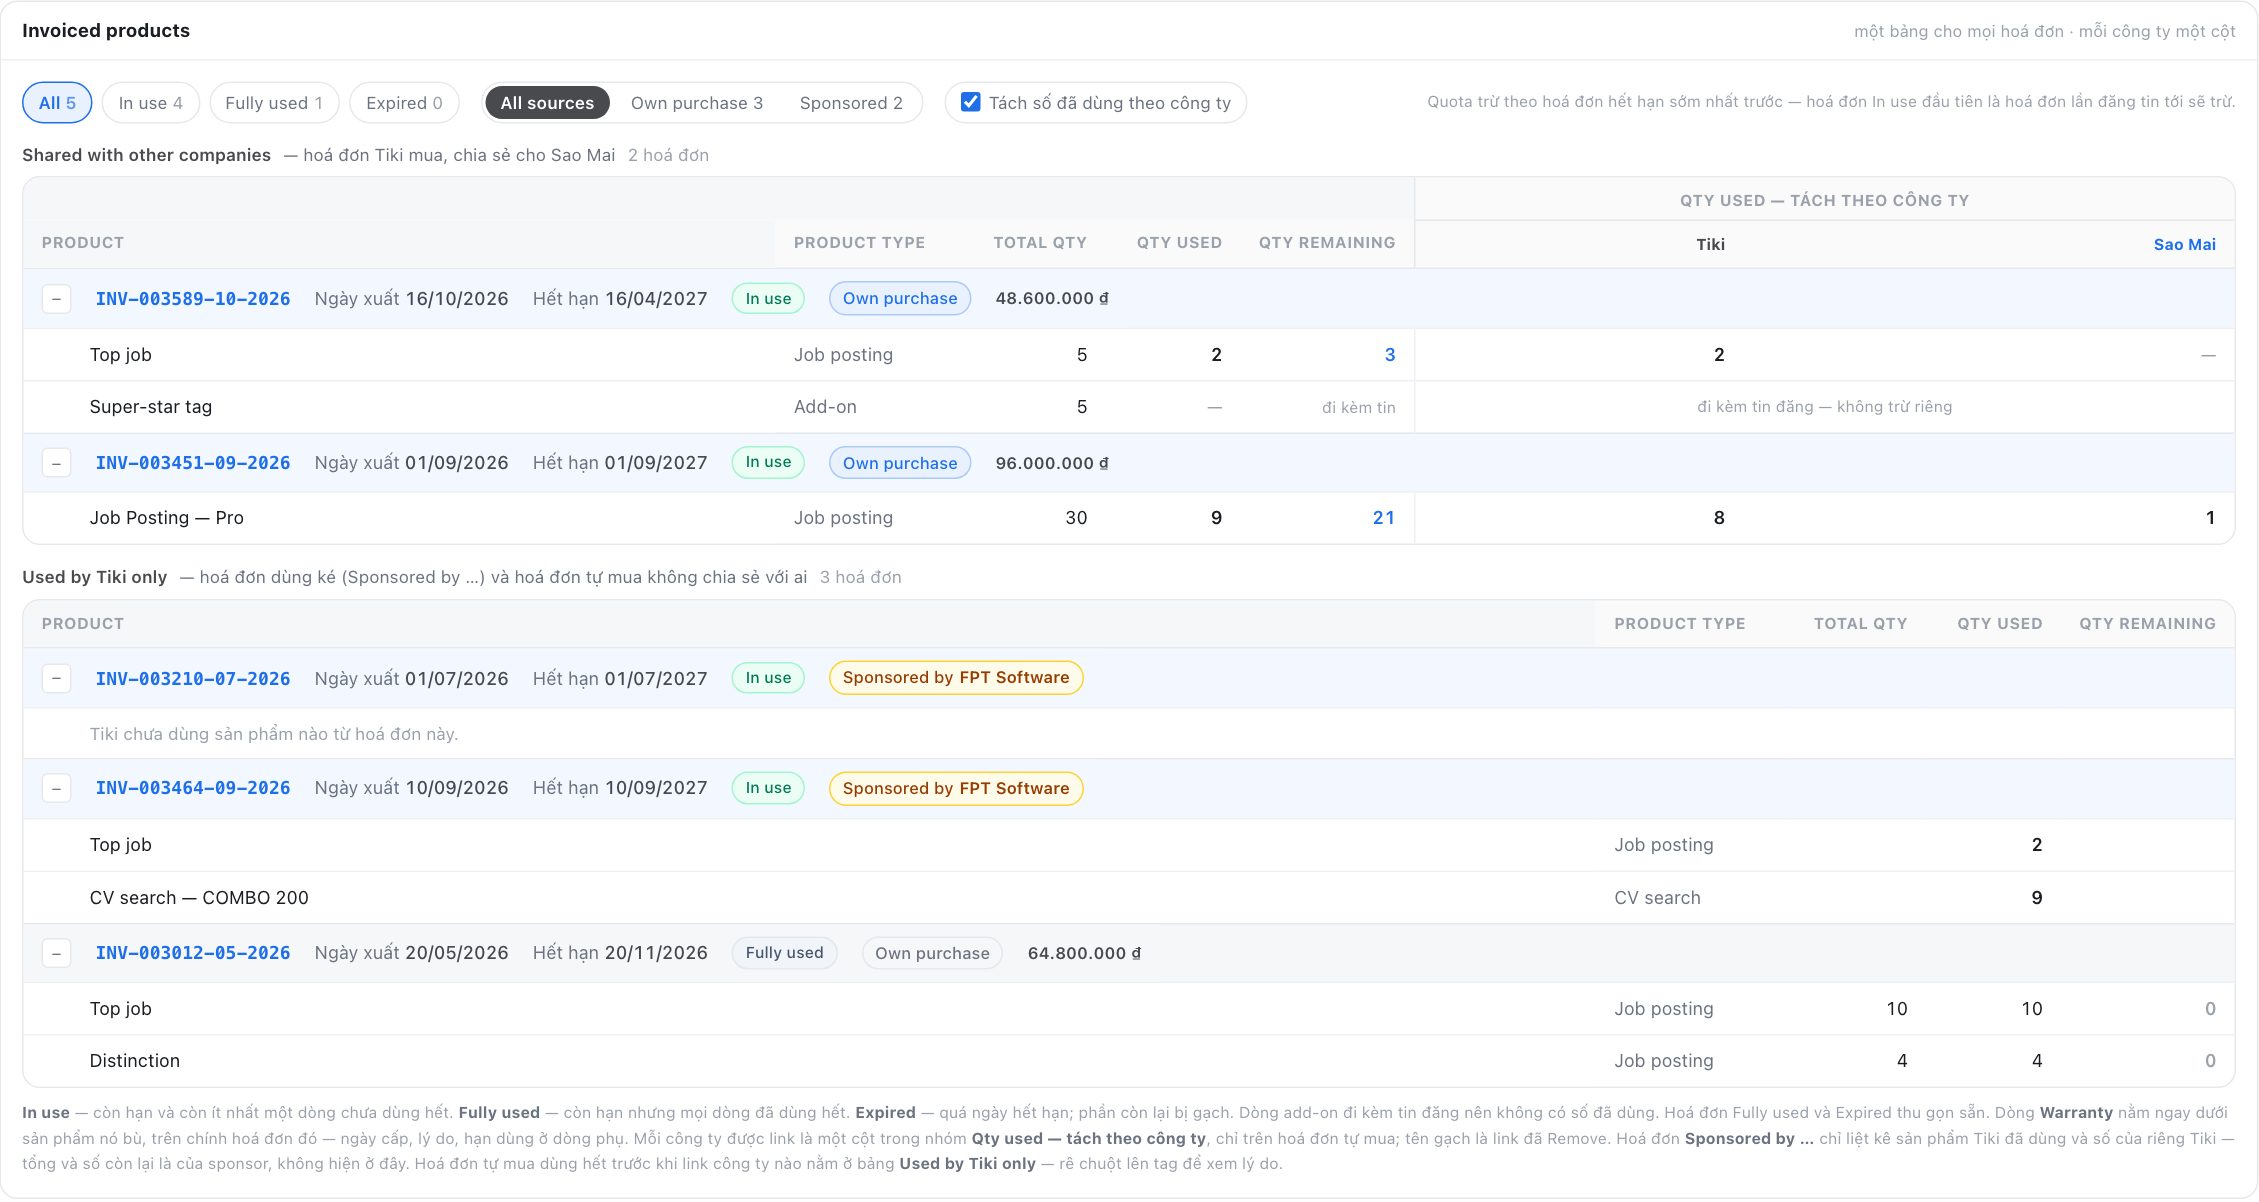
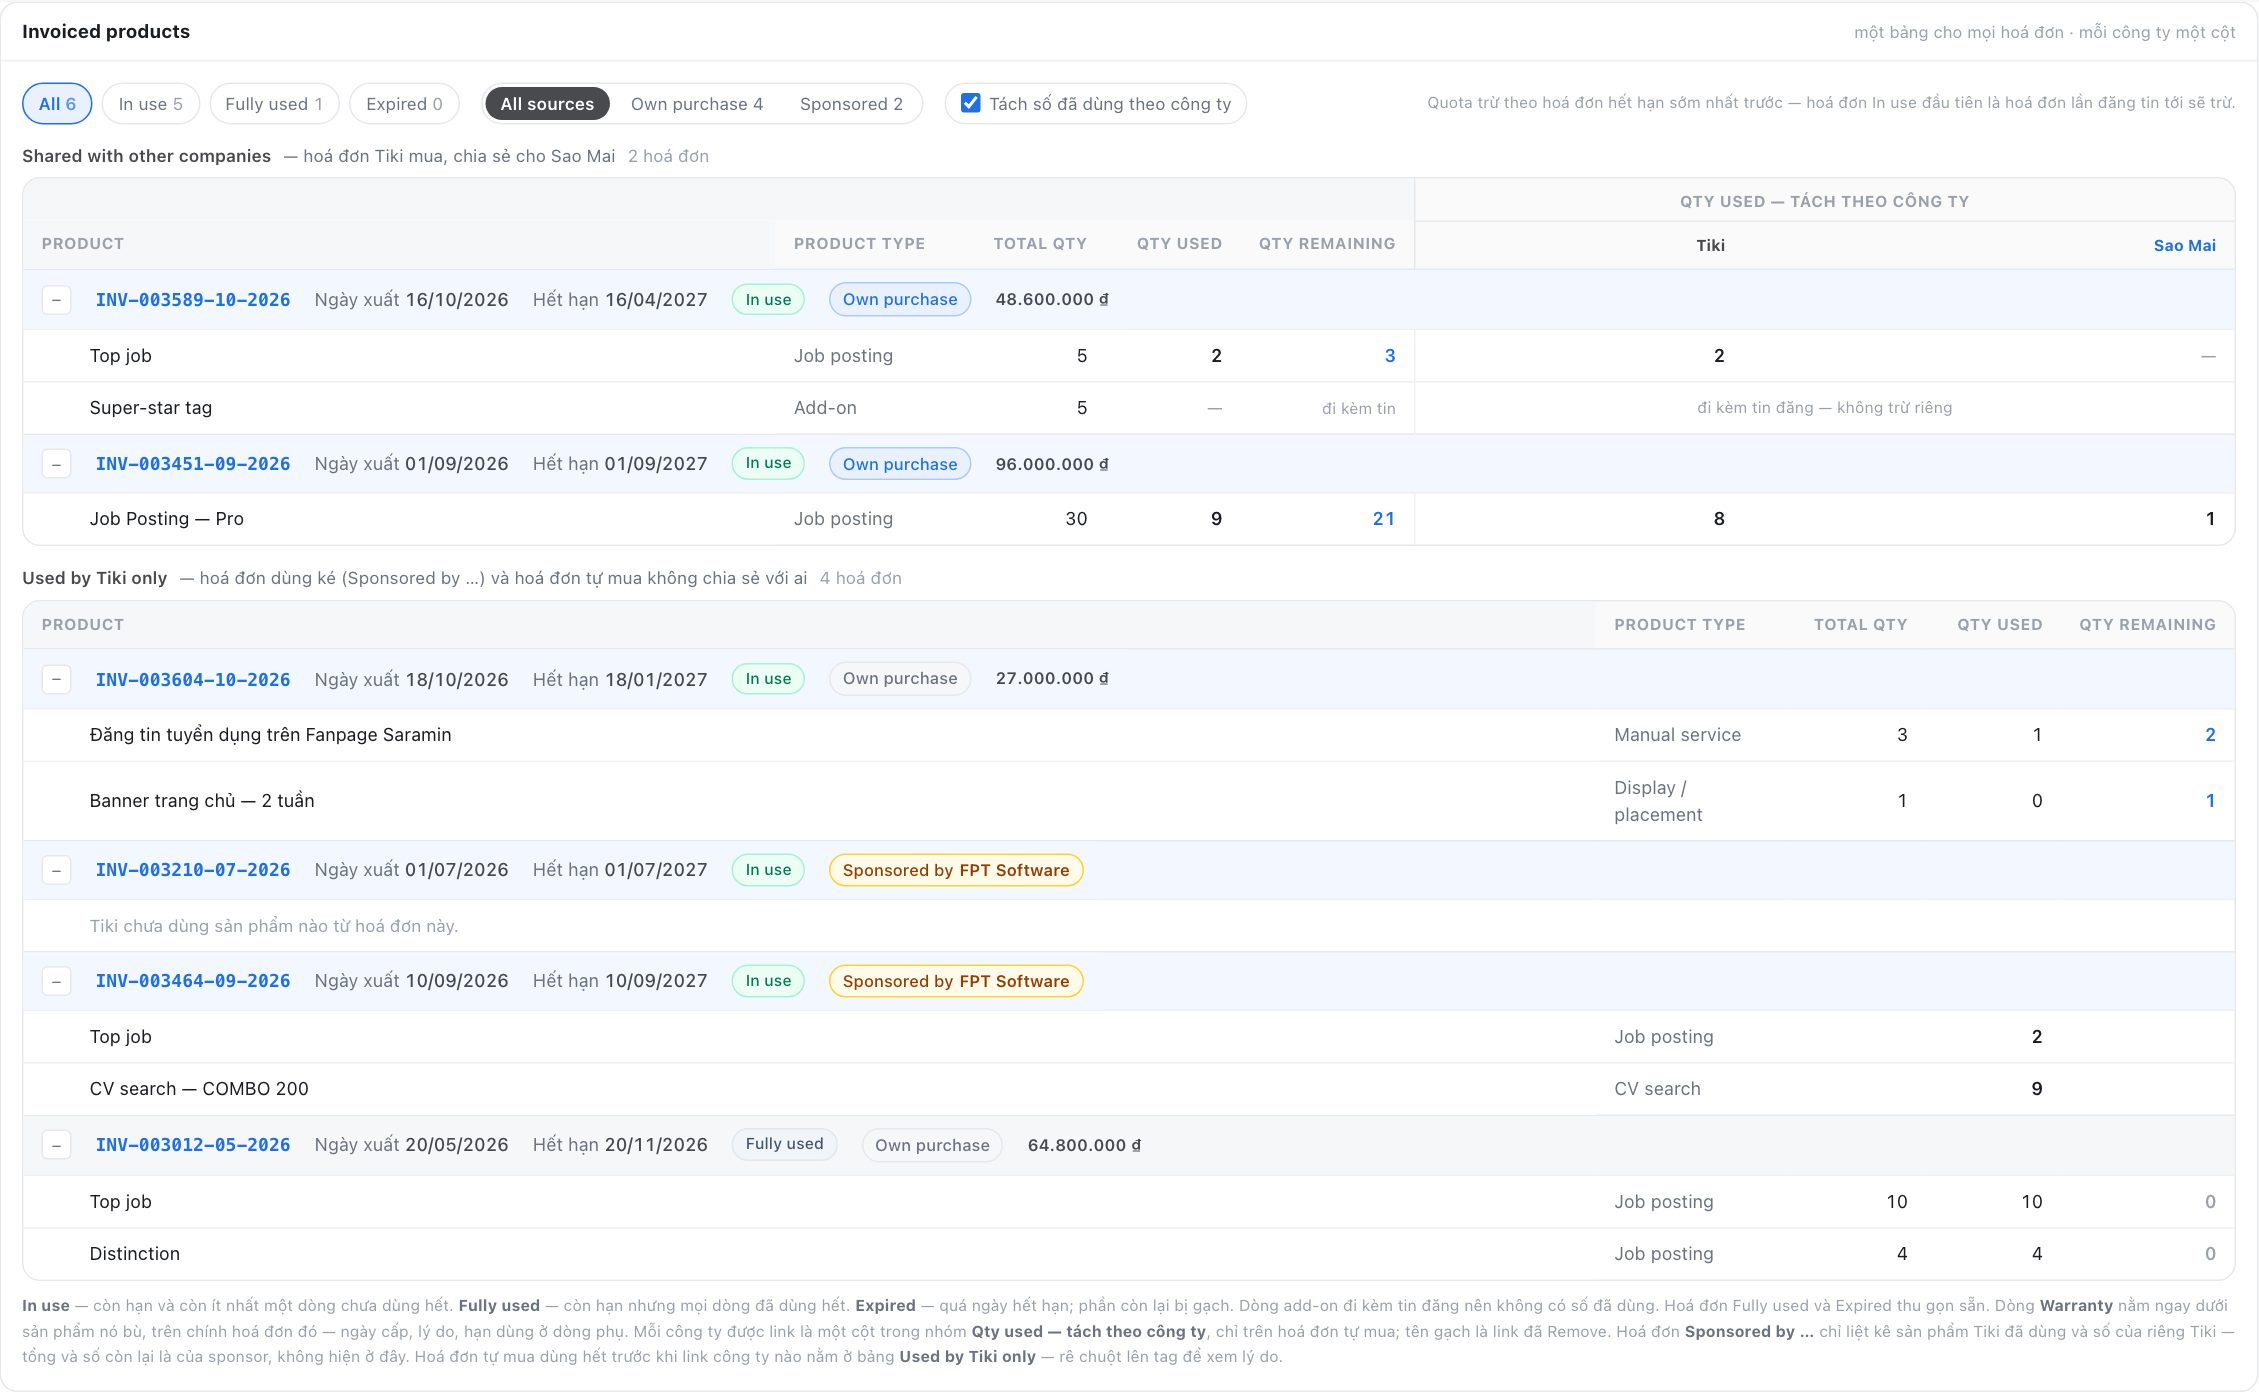
Tiki: own invoice of never-shared products, used by Tiki alone
Manual service + placement invoice, In use, sits in 'Used by Tiki only'
on admin and Employer; never shown to Sao Mai. Spec rule added; SRM-1089
Tiki screenshots re-shot.

diff --git a/src/data/build/crm.ts b/src/data/build/crm.ts
@@ -1419,7 +1419,7 @@ export const crm: BuildModule = {
               ],
             },
             items: [
-              'An own invoice of a sponsor counts as SHARED when at least one link was active while the invoice still had quota left. An invoice used up (or expired) before the first link existed goes in “Used by {company} only” with the tag Own purchase; hovering the tag gives the reason (“dùng hết 28/08/2026 — trước khi link Sao Mai 05/09/2026”).',
+              'An own invoice of a sponsor counts as SHARED when at least one link was active while the invoice still had quota left. An own invoice that holds only never-shared products (manual services, placements — Shared quota rule) also goes there, even while links are active: Tiki’s INV-003604-10-2026 is In use and used by Tiki alone. An invoice used up (or expired) before the first link existed goes in “Used by {company} only” with the tag Own purchase; hovering the tag gives the reason (“dùng hết 28/08/2026 — trước khi link Sao Mai 05/09/2026”).',
               'A company may be sponsor and beneficiary at once (decided 21/10/2026 with the Tiki case). Quota passes ONE level only: what it draws from its sponsor is never visible to, or spendable by, the companies it sponsors.',
             ],
           },

diff --git a/src/pages/admin/screens/companies/holdings.tsx b/src/pages/admin/screens/companies/holdings.tsx
@@ -99,6 +99,13 @@ const HOLDINGS: Record<string, Inv[]> = {
      and holds an October invoice nobody else has used yet. One level only: the FPT
      invoices it rides on are NOT passed on to Sao Mai. */
   'Tiki': [
+    /* Bought and used by Tiki ALONE while it is a sponsor: manual services and
+       placements are never shared (Shared quota rule), so an invoice holding only
+       those stays in "Used by Tiki only" — In use, with quota left. */
+    { no: 'INV-003604-10-2026', po: 'PO-003604-10-2026', issued: '18/10/2026', expires: '18/01/2027', amount: '27.000.000 ₫', notShared: 'Manual service và placement không bao giờ được chia sẻ — chỉ Tiki dùng', lines: [
+      { name: 'Đăng tin tuyển dụng trên Fanpage Saramin', type: 'Manual service', total: 3, used: 1 },
+      { name: 'Banner trang chủ — 2 tuần', type: 'Display / placement', total: 1, used: 0 },
+    ] },
     { no: 'INV-003012-05-2026', po: 'PO-003012-05-2026', issued: '20/05/2026', expires: '20/11/2026', amount: '64.800.000 ₫', notShared: 'Tiki dùng hết 10/10 ngày 28/08/2026 — trước khi link Sao Mai (05/09/2026)', lines: [
       { name: 'Top job', type: 'Job posting', total: 10, used: 10 },
       { name: 'Distinction', type: 'Job posting', total: 4, used: 4 },
